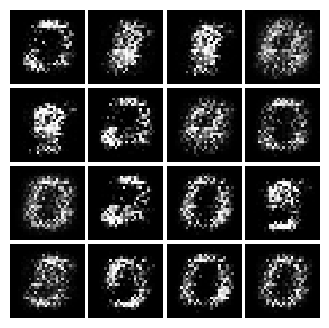
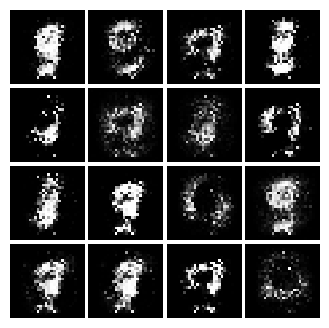
Vanilla GAN Added

diff --git a/vanilla_gan/vanilla_gan_tf.py b/vanilla_gan/vanilla_gan_tf.py
@@ -11,6 +11,7 @@ def xavier_init(size):
     return tf.random_normal(shape=size, stddev=xavier_stddev)
 
 
+# Network Design
 X = tf.placeholder(tf.float32, shape=[None, 784])
 
 D_W1 = tf.Variable(xavier_init([784, 128]))
@@ -21,6 +22,18 @@ D_b2 = tf.Variable(tf.zeros(shape=[1]))
 
 theta_D = [D_W1, D_W2, D_b1, D_b2]
 
+def generator(z):
+    """ GAN generator
+    # Arguments
+        z: 100-dimensional vector, the prior for the G(Z)
+    # Returns
+        G_prob: 786-dimensional vector, which is MNIST image (28x28)
+    """    
+    G_h1 = tf.nn.relu(tf.matmul(z, G_W1) + G_b1) # (1 x 100) x (100 x 128) + (1 x 128)
+    G_log_prob = tf.matmul(G_h1, G_W2) + G_b2 # (1 x 128) x (128 x 784) + (1 x 784)
+    G_prob = tf.nn.sigmoid(G_log_prob)
+
+    return G_prob
 
 Z = tf.placeholder(tf.float32, shape=[None, 100])
 
@@ -32,27 +45,53 @@ G_b2 = tf.Variable(tf.zeros(shape=[784]))
 
 theta_G = [G_W1, G_W2, G_b1, G_b2]
 
-
-def sample_Z(m, n):
-    return np.random.uniform(-1., 1., size=[m, n])
-
-
-def generator(z):
-    G_h1 = tf.nn.relu(tf.matmul(z, G_W1) + G_b1)
-    G_log_prob = tf.matmul(G_h1, G_W2) + G_b2
-    G_prob = tf.nn.sigmoid(G_log_prob)
-
-    return G_prob
-
-
 def discriminator(x):
-    D_h1 = tf.nn.relu(tf.matmul(x, D_W1) + D_b1)
-    D_logit = tf.matmul(D_h1, D_W2) + D_b2
+    """ GAN discriminator
+    # Arguments
+        x: MNIST image
+    # Returns
+        D_prob: Probability of real MNIST image
+    """    
+    D_h1 = tf.nn.relu(tf.matmul(x, D_W1) + D_b1) # (1, 784) x (784, 128) + (1, 128)
+    D_logit = tf.matmul(D_h1, D_W2) + D_b2 # (1, 128) x (128, 1) + (1, 1)
     D_prob = tf.nn.sigmoid(D_logit)
 
     return D_prob, D_logit
 
 
+G_sample = generator(Z) # Generated sample
+D_real, D_logit_real = discriminator(X) # Discriminator output for real sample
+D_fake, D_logit_fake = discriminator(G_sample) # Discriminator output for fake sample, which is from the generator
+
+
+# Loss function
+"""
+# Original Losses:
+D_loss = -tf.reduce_mean(tf.log(D_real) + tf.log(1. - D_fake))
+G_loss = -tf.reduce_mean(tf.log(D_fake))
+
+# Alternative losses:
+D_loss_real = tf.reduce_mean(tf.nn.sigmoid_cross_entropy_with_logits(logits=D_logit_real, labels=tf.ones_like(D_logit_real)))
+D_loss_fake = tf.reduce_mean(tf.nn.sigmoid_cross_entropy_with_logits(logits=D_logit_fake, labels=tf.zeros_like(D_logit_fake)))
+D_loss = D_loss_real + D_loss_fake
+G_loss = tf.reduce_mean(tf.nn.sigmoid_cross_entropy_with_logits(logits=D_logit_fake, labels=tf.ones_like(D_logit_fake)))
+"""
+
+# Take alternative losses
+D_loss_real = tf.reduce_mean(tf.nn.sigmoid_cross_entropy_with_logits(logits=D_logit_real, labels=tf.ones_like(D_logit_real)))
+D_loss_fake = tf.reduce_mean(tf.nn.sigmoid_cross_entropy_with_logits(logits=D_logit_fake, labels=tf.zeros_like(D_logit_fake)))
+D_loss = D_loss_real + D_loss_fake
+G_loss = tf.reduce_mean(tf.nn.sigmoid_cross_entropy_with_logits(logits=D_logit_fake, labels=tf.ones_like(D_logit_fake)))
+
+# Solver
+D_solver = tf.train.AdamOptimizer().minimize(D_loss, var_list=theta_D)
+G_solver = tf.train.AdamOptimizer().minimize(G_loss, var_list=theta_G)
+
+# Uniform prior for G(Z)
+def sample_Z(m, n):
+    return np.random.uniform(-1., 1., size=[m, n])
+
+# Plot
 def plot(samples):
     fig = plt.figure(figsize=(4, 4))
     gs = gridspec.GridSpec(4, 4)
@@ -69,23 +108,6 @@ def plot(samples):
     return fig
 
 
-G_sample = generator(Z)
-D_real, D_logit_real = discriminator(X)
-D_fake, D_logit_fake = discriminator(G_sample)
-
-# D_loss = -tf.reduce_mean(tf.log(D_real) + tf.log(1. - D_fake))
-# G_loss = -tf.reduce_mean(tf.log(D_fake))
-
-# Alternative losses:
-# -------------------
-D_loss_real = tf.reduce_mean(tf.nn.sigmoid_cross_entropy_with_logits(logits=D_logit_real, labels=tf.ones_like(D_logit_real)))
-D_loss_fake = tf.reduce_mean(tf.nn.sigmoid_cross_entropy_with_logits(logits=D_logit_fake, labels=tf.zeros_like(D_logit_fake)))
-D_loss = D_loss_real + D_loss_fake
-G_loss = tf.reduce_mean(tf.nn.sigmoid_cross_entropy_with_logits(logits=D_logit_fake, labels=tf.ones_like(D_logit_fake)))
-
-D_solver = tf.train.AdamOptimizer().minimize(D_loss, var_list=theta_D)
-G_solver = tf.train.AdamOptimizer().minimize(G_loss, var_list=theta_G)
-
 mb_size = 128
 Z_dim = 100
 
@@ -99,7 +121,7 @@ if not os.path.exists('out/'):
 
 i = 0
 
-for it in range(1000000):
+for it in range(10000):
     if it % 1000 == 0:
         samples = sess.run(G_sample, feed_dict={Z: sample_Z(16, Z_dim)})
 
